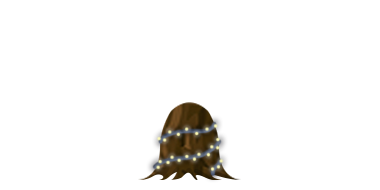
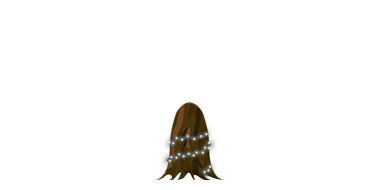
Ornament shadows + trunk + Test functions
Added ornament shadows on release.

Trunk smaller 50% on request of ian.

Removed test functionalities: icon + score  count + clickevent

Changed region(s): [[0.3474, 0.5263, 0.6368, 0.9474]]

diff --git a/css/styles.css b/css/styles.css
@@ -1,1 +1,1 @@
-html,body,div,span,applet,object,iframe,h1,h2,h3,h4,h5,h6,p,blockquote,pre,a,abbr,acronym,address,big,cite,code,del,dfn,em,img,ins,kbd,q,s,samp,small,strike,strong,sub,sup,tt,var,b,u,i,center,dl,dt,dd,ol,ul,li,fieldset,form,label,legend,table,caption,tbody,tfoot,thead,tr,th,td,article,aside,canvas,details,embed,figure,figcaption,footer,header,hgroup,menu,nav,output,ruby,section,summary,time,mark,audio,video{margin:0;padding:0;font-size:12px;font:inherit}article,aside,details,figcaption,figure,footer,header,hgroup,menu,nav,section{display:block}body{line-height:1}ol,ul{list-style:none}blockquote,q{quotes:none}blockquote:before,blockquote:after,q:before,q:after{content:'';content:none}table{border-collapse:collapse;border-spacing:0}:focus{outline:none}::-moz-focus-inner{border:0}*:focus{outline:0}*{margin:0;box-sizing:border-box}html,body{margin:0;padding:0;background-color:white;color:#666666;font-size:15px;font-family:Helvetica,Verdana,monospace;height:100%;min-height:100%}img{border-style:none;vertical-align:top}a{text-decoration:underline;color:#ccc;font-weight:bold;font-family:Helvetica,Verdana,monospace;font-size:1em}a:hover{text-decoration:none}h1{color:#fff;font-family:Arial,cursive,sans-serif;font-weight:normal;text-align:center;font-size:50px;line-height:1.2em;padding:10px 0px;margin:0px auto 0px}h2{color:#fff;font-family:Helvetica,Verdana,monospace;font-weight:normal;text-align:left;font-size:3.2em;line-height:1em;margin:0px 0px 20px;padding-top:30px}p{color:#fff;font-size:1.1em;font-family:Helvetica,Verdana,monospace;text-align:left;line-height:1.3em;margin-top:8px;margin-bottom:20px}.main{background:rgba(0,255,0,0.2);color:white;font-weight:bold;position:absolute;top:0;width:100%}.float-containers{overflow:hidden;width:100%}.fl{float:left;width:60%}.fr{float:right;width:39%}.onethird{width:32%;float:left}.medium-col{float:left;width:49%}label{font-family:Helvetica,Verdana,monospace;color:#fff;font-size:1em;line-height:1.4em}ul{list-style:disc;color:#fff}ul li{color:#fff;font-family:Helvetica,Verdana,monospace;font-size:1.6em;line-height:1.6em;font-weight:100}hr{margin-top:5px;margin-bottom:8px;border:none;border-bottom:1px solid #d9d9d9}.container{position:relative;width:100%;margin:0 auto;height:100%;min-height:100%;text-align:center;background-size:cover;overflow-x:hidden}::-webkit-input-placeholder{color:white}:-moz-placeholder{color:white;opacity:1}::-moz-placeholder{color:white;opacity:1}:-ms-input-placeholder{color:white}@media only screen and (min-width: 320px){.container{width:100%;overflow:hidden;height:auto;max-width:960px}.frame{position:absolute;bottom:12%;width:100%}.treeframe{width:90%;margin:0 auto;position:relative}.segment>img{width:auto;max-width:100%;min-height:185px;height:auto}img#segment1{min-height:125px;height:185px;padding:60px 0 0 0}.treeframe img{z-index:99999}.scored{font-size:3em;text-align:center;font-weight:bold}}@media only screen and (min-width: 480px){.treeframe{max-width:380px;width:100%;margin:0 auto}.segment>img{width:auto}img#segment1{min-height:185px;padding:0 0 0 0}}@media only screen and (min-width: 768px){.scored{display:none}.moveit{display:none}}
+html,body,div,span,applet,object,iframe,h1,h2,h3,h4,h5,h6,p,blockquote,pre,a,abbr,acronym,address,big,cite,code,del,dfn,em,img,ins,kbd,q,s,samp,small,strike,strong,sub,sup,tt,var,b,u,i,center,dl,dt,dd,ol,ul,li,fieldset,form,label,legend,table,caption,tbody,tfoot,thead,tr,th,td,article,aside,canvas,details,embed,figure,figcaption,footer,header,hgroup,menu,nav,output,ruby,section,summary,time,mark,audio,video{margin:0;padding:0;font-size:12px;font:inherit}article,aside,details,figcaption,figure,footer,header,hgroup,menu,nav,section{display:block}body{line-height:1}ol,ul{list-style:none}blockquote,q{quotes:none}blockquote:before,blockquote:after,q:before,q:after{content:'';content:none}table{border-collapse:collapse;border-spacing:0}:focus{outline:none}::-moz-focus-inner{border:0}*:focus{outline:0}*{margin:0;box-sizing:border-box}html,body{margin:0;padding:0;background-color:white;color:#666666;font-size:15px;font-family:Helvetica,Verdana,monospace;height:100%;min-height:100%}img{border-style:none;vertical-align:top}a{text-decoration:underline;color:#ccc;font-weight:bold;font-family:Helvetica,Verdana,monospace;font-size:1em}a:hover{text-decoration:none}h1{color:#fff;font-family:Arial,cursive,sans-serif;font-weight:normal;text-align:center;font-size:50px;line-height:1.2em;padding:10px 0px;margin:0px auto 0px}h2{color:#fff;font-family:Helvetica,Verdana,monospace;font-weight:normal;text-align:left;font-size:3.2em;line-height:1em;margin:0px 0px 20px;padding-top:30px}p{color:#fff;font-size:1.1em;font-family:Helvetica,Verdana,monospace;text-align:left;line-height:1.3em;margin-top:8px;margin-bottom:20px}.main{background:rgba(0,255,0,0.2);color:white;font-weight:bold;position:absolute;top:0;width:100%}.float-containers{overflow:hidden;width:100%}.fl{float:left;width:60%}.fr{float:right;width:39%}.onethird{width:32%;float:left}.medium-col{float:left;width:49%}label{font-family:Helvetica,Verdana,monospace;color:#fff;font-size:1em;line-height:1.4em}ul{list-style:disc;color:#fff}ul li{color:#fff;font-family:Helvetica,Verdana,monospace;font-size:1.6em;line-height:1.6em;font-weight:100}hr{margin-top:5px;margin-bottom:8px;border:none;border-bottom:1px solid #d9d9d9}.container{position:relative;width:100%;margin:0 auto;height:100%;min-height:100%;text-align:center;background-size:cover;overflow-x:hidden}::-webkit-input-placeholder{color:white}:-moz-placeholder{color:white;opacity:1}::-moz-placeholder{color:white;opacity:1}:-ms-input-placeholder{color:white}@media only screen and (min-width: 320px){.container{width:100%;overflow:hidden;height:auto;max-width:960px}.frame{position:absolute;bottom:12%;width:100%}.treeframe{width:90%;margin:0 auto;position:relative}.segment>img{width:auto;max-width:100%;min-height:185px;height:auto}img#segment1{min-height:125px;height:185px;padding:60px 0 0 0}.treeframe img{z-index:99999}.main{display:none}.moveit{display:none}.scored{display:none;font-size:3em;text-align:center;font-weight:bold}}@media only screen and (min-width: 480px){.treeframe{max-width:380px;width:100%;margin:0 auto}.segment>img{width:auto}img#segment1{min-height:185px;padding:0 0 0 0}}@media only screen and (min-width: 768px){.scored{display:none}.moveit{display:none}}

diff --git a/js/tree.js b/js/tree.js
@@ -333,7 +333,6 @@ HCSegment.prototype = {
             var total_segments = parseInt(this.segment.number_of_segments, 10);
             var segment_height = parseInt(this.segment.height, 10);
             var decoration_height = parseInt(this.decoration.height, 10);
-
             //CALCULATE HEIGHT OF TREE - all segments - top segment, multiplied by the topmargin  + top
             var heightoftree = ((total_segments - 1) * (segment_height * 0.25) + segment_height);
             var randTop = (Math.random() * 0.05) + 0.01; // Originally this value was 0.05 instead of variable randTop
@@ -348,6 +347,8 @@ HCSegment.prototype = {
                 var topposition = (((segment_height * (myString - 1)) * 0.25) + segment_height + 10);
                 //clone_parent clones the div ornament + images included
                 var clone_parent = $("#" + randomitem.id).parents('.ornament').clone();
+                shadowDiv_clone = shadowDiv.clone();
+
                 var previousOrnPosition = 0;
                 var itemSmaller = false;
                 var randomRotateDrop =  Math.floor(Math.random() * (390 - 340 + 1) + 340)
@@ -374,12 +375,14 @@ HCSegment.prototype = {
                     if (fallPosition < currentOrnDropped && !itemSmaller) {
                         previousOrnPosition = index;
                         itemSmaller = true;
+                        
                     }
                 });
 
                 //PLACE BEHIND PREVIOUS OBJECTS
                 if ($('.fallen').length > 0 && itemSmaller) {
                     $(clone_parent).insertBefore($('.fallen')[previousOrnPosition]);
+
                 }
 
                 //Clear all images within ornament container and add only the current ornament
@@ -392,6 +395,12 @@ HCSegment.prototype = {
                 clone_parent.animate({
                     top: fallPosition
                 }, 500);
+                console.log(clone_parent.find('img').position().left);
+                $(clone_parent).append(shadowDiv_clone.attr('class', 'droppedOrnShadow').css({
+                    'position': 'absolute',
+                    'width': '30px',
+                    'margin': '-72px auto 0px',
+                    'left': clone_parent.find('img').position().left-12}));
 
                 return randomitem;
             }

diff --git a/js/scripts.js b/js/scripts.js
@@ -9,34 +9,34 @@
     game.preloadSettings();
     
 /*TEST CLICK*/
-     $('#tree').click(function(event){
-        if (!inaction){
-            inaction = true;
-            var timeinterval = 200;
-            var delaytimer = 0;
-            var degrees = 50;
-            var direction = "right";
+    //  $('#tree').click(function(event){
+    //     if (!inaction){
+    //         inaction = true;
+    //         var timeinterval = 200;
+    //         var delaytimer = 0;
+    //         var degrees = 50;
+    //         var direction = "right";
 
-            game.shake("left", 50, timeinterval, 70);
-            var shakeanimation = setInterval(function(){
-                game.shake(direction, degrees, timeinterval, 70);
-                direction = (direction == 'left') ? 'right' : 'left';
-                degrees = degrees/2;
-                gamecount++;
+    //         game.shake("left", 50, timeinterval, 70);
+    //         var shakeanimation = setInterval(function(){
+    //             game.shake(direction, degrees, timeinterval, 70);
+    //             direction = (direction == 'left') ? 'right' : 'left';
+    //             degrees = degrees/2;
+    //             gamecount++;
 
-                if (degrees < 1) {
-                    inaction = false;
-                    clearTimeout(shakeanimation);
-                }
+    //             if (degrees < 1) {
+    //                 inaction = false;
+    //                 clearTimeout(shakeanimation);
+    //             }
                 
-            }, timeinterval);
+    //         }, timeinterval);
           
-            //Check for winner after a few seconds
-            setTimeout(function(){
-                checkWinner();
-            }, 460);
-        }
-    });
+    //         //Check for winner after a few seconds
+    //         setTimeout(function(){
+    //             checkWinner();
+    //         }, 460);
+    //     }
+    // });
 
     /*
     * Releases the ornament and checks if it's a prize

diff --git a/sass/styles.scss b/sass/styles.scss
@@ -366,7 +366,14 @@ hr {
     .treeframe img {
         z-index: 99999;
     }
+    .main{
+        display: none;
+    }
+    .moveit{
+        display: none;
+    }
     .scored{
+        display: none;
         font-size: 3em;
         text-align: center;
         font-weight: bold;
